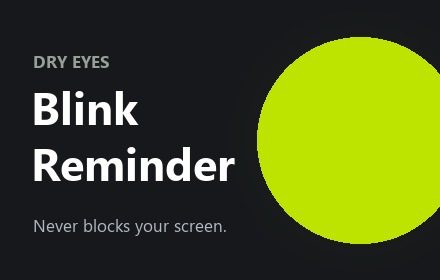
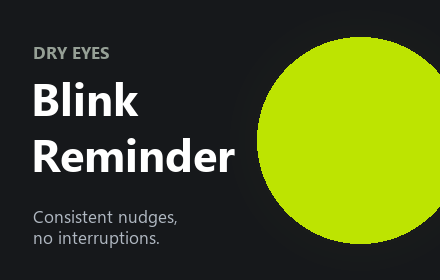
Store tiles: a new tagline, and down to the two that work
"Never blocks your screen" was the wrong line in two ways. It is a negative,
so it only lands on someone already burned by an app that blacks out the
screen -- and the break reminder does dim, so it was a claim a user could
argue with. "Consistent nudges, no interruptions" answers both questions a
shopper actually has: does it work, and what does it cost me.

The name already says what the app is, so the line underneath is free to say
how it feels to live with. On the square dark tile the disc leaves too little
room for it, so it breaks at its own comma rather than shrinking past reading.

Designs 3-5 are gone at the author's pick -- the mark, the page and the
claim. Both survivors put the name first, which is what every strong listing
in this category does. Their code goes with them rather than sitting unused.

diff --git a/store/make_chrome_assets.py b/store/make_chrome_assets.py
@@ -228,26 +228,31 @@ save(tile(1400, 560, HEAD, "30 languages · no tracking", 236, (1120, 280), 96),
 # -- two named tile designs, kept side by side --------------------------------
 # Both put the app's name on the tile. Every strong listing in the category
 # does, even though the Store prints the name beside the image; the ones that
-# show a bare icon on white read as unfinished. "Never blocks your screen" is
-# the supporting line because it is the one thing none of the neighbours can
-# say -- they advertise enforced full-screen breaks.
+# show a bare icon on white read as unfinished. The name carries the what, so
+# the line under it only has to say how the thing feels to live with -- which
+# is the one claim none of the neighbours can make, since they advertise
+# enforced full-screen breaks.
 
 LIME = (189, 228, 1)
 INK = (22, 24, 27)
 
 
-def disc(card, cx, cy, r, glow=True, alpha=255):
+def disc(card, cx, cy, r, glow=True):
     layer = Image.new("RGBA", card.size, (0, 0, 0, 0))
     g = ImageDraw.Draw(layer)
     if glow:
         for i in range(18, 0, -1):
             g.ellipse((cx - r - i * 3, cy - r - i * 3, cx + r + i * 3, cy + r + i * 3),
                       fill=LIME + (int(5 * (1 - i / 18.0) ** 2),))
-    g.ellipse((cx - r, cy - r, cx + r, cy + r), fill=LIME + (alpha,))
+    g.ellipse((cx - r, cy - r, cx + r, cy + r), fill=LIME + (255,))
     card.alpha_composite(layer)
 
 
-NAME_TOP, NAME, NOTE = "DRY EYES", "Blink Reminder", "Never blocks your screen."
+# The name says what it does, so the line under it only has to say how it
+# feels to live with. Both halves earn their place: "consistent" answers
+# whether it works, "no interruptions" answers what it costs you.
+NAME_TOP, NAME = "DRY EYES", "Blink Reminder"
+NOTE = "Consistent nudges, no interruptions."
 
 
 def design_lime(w, h):
@@ -279,9 +284,18 @@ def design_dark(w, h):
     fn = fit(d, max(lines, key=len), True, int(h * 0.17), room)
     lh = int((fn.getbbox("Hg")[3] - fn.getbbox("Hg")[1]) * 1.34)
     fe = font(int(h * 0.064), True)
-    fnote = fit(d, NOTE, False, int(h * 0.061), room)
+    # The disc eats the right-hand half, and the tagline is long enough that
+    # fitting it to what is left shrinks it past reading. So it breaks at its
+    # own comma instead -- two readable lines beat one nobody can see.
+    want = int(h * 0.061)
+    notes = [NOTE]
+    if d.textlength(NOTE, font=font(want)) > room:
+        head, tail = NOTE.split(", ", 1)
+        notes = [head + ",", tail]
+    fnote = fit(d, max(notes, key=len), False, want, room)
     eh = fe.getbbox(NAME_TOP)[3] - fe.getbbox(NAME_TOP)[1]
-    nh = fnote.getbbox(NOTE)[3] - fnote.getbbox(NOTE)[1]
+    nlh = int((fnote.getbbox("Hg")[3] - fnote.getbbox("Hg")[1]) * 1.34)
+    nh = nlh * len(notes) - int(nlh * 0.34)
     # Measured, not placed at fixed fractions: the name takes one line on the
     # marquee and two on the square tile, and a fixed subtitle position put
     # the second line straight through it.
@@ -292,113 +306,13 @@ def design_dark(w, h):
     y += eh + gap1
     for i, line in enumerate(lines):
         d.text((pad - 2, y + i * lh), line, font=fn, fill=(255, 255, 255))
-    d.text((pad, y + lh * len(lines) + gap2), NOTE, font=fnote,
-           fill=(176, 184, 194))
+    ny = y + lh * len(lines) + gap2
+    for i, line in enumerate(notes):
+        d.text((pad, ny + i * nlh), line, font=fnote, fill=(176, 184, 194))
     return c
 
 
-PAPER = (247, 248, 250)
-FULL_NAME = "Dry Eyes Blink Reminder"
-
-
-def design_mark(w, h):
-    """The cue standing in for a letter, so the mark and the name are one
-    object. The most memorable and the least self-explanatory -- it needs
-    the line underneath to say what it is."""
-    c = Image.new("RGBA", (w, h), INK + (255,))
-    d = ImageDraw.Draw(c)
-    left, right = "BL", "NK"
-    size = int(h * 0.3)
-    while True:
-        f = font(size, True)
-        r = int(size * 0.38)
-        total = d.textlength(left, font=f) + r * 2 + size * 0.2 +             d.textlength(right, font=f)
-        if total <= w * 0.8 or size <= 20:
-            break
-        size -= 2
-    wl = d.textlength(left, font=f)
-    x = (w - total) / 2
-    top = h * 0.22
-    d.text((x, top), left, font=f, fill=(255, 255, 255))
-    # Centred on the letters' own middle, not the line box, or it rides high.
-    mid = top + (f.getbbox(left)[3] + f.getbbox(left)[1]) / 2
-    disc(c, int(x + wl + size * 0.1 + r), int(mid), r, glow=False)
-    d = ImageDraw.Draw(c)
-    d.text((x + wl + size * 0.2 + r * 2, top), right, font=f, fill=(255, 255, 255))
-
-    # One line under the mark, not two: at the size the Store actually
-    # shows this, a second grey line is grey mush, and the name has to win.
-    fn = fit(d, FULL_NAME, True, int(h * 0.088), int(w * 0.86))
-    d.text(((w - d.textlength(FULL_NAME, font=fn)) / 2, h * 0.69), FULL_NAME,
-           font=fn, fill=(224, 228, 234))
-    return c
-
-
-def design_page(w, h):
-    """What it actually does: the cue over a page being read.
-
-    The only tile that shows the product instead of naming it, and the one
-    that has to be careful -- a solid lime disc blotting out a paragraph
-    would advertise precisely what this app does not do. So it is drawn the
-    way the real cue is drawn, see-through, with the words carrying on
-    underneath, and it stays inside the page rather than crossing the name.
-    """
-    c = Image.new("RGBA", (w, h), (219, 224, 231, 255))
-    m, bar, gap = int(h * 0.075), int(h * 0.185), int(h * 0.04)
-    rad = int(h * 0.04)
-    card = (m, m, w - m, h - m - bar - gap)
-    rounded_shadow(c, card, rad, spread=int(h * 0.05), strength=46)
-    d = ImageDraw.Draw(c)
-    d.rounded_rectangle(card, rad, fill=(255, 255, 255, 255))
-
-    pad = int(h * 0.09)
-    x0, inner = m + pad, w - m * 2 - pad * 2
-    y, hh = m + pad, int(h * 0.055)
-    d.rounded_rectangle((x0, y, x0 + int(inner * 0.46), y + hh),
-                        int(h * 0.012), fill=(40, 46, 54))
-    y += int(hh * 2)
-    lh, step = int(h * 0.033), int(h * 0.072)
-    for width in (0.97, 0.88, 1.0, 0.82, 0.94, 0.74):
-        if y + lh > card[3] - pad:
-            break
-        d.rounded_rectangle((x0, y, x0 + int(inner * width), y + lh),
-                            int(h * 0.012), fill=(203, 209, 218))
-        y += step
-    disc(c, int(w * 0.72), (m + card[3]) // 2, int(h * 0.2),
-         glow=False, alpha=155)
-
-    d = ImageDraw.Draw(c)
-    top = h - m - bar
-    d.rounded_rectangle((m, top, w - m, h - m), rad, fill=INK)
-    fn = fit(d, FULL_NAME, True, int(h * 0.095), inner)
-    bb = fn.getbbox(FULL_NAME)
-    d.text((x0, top + (bar - bb[3] - bb[1]) / 2), FULL_NAME, font=fn,
-           fill=(255, 255, 255))
-    return c
-
-
-def design_wedge(w, h):
-    """The argument rather than the name: the one thing none of the
-    neighbours can say."""
-    c = Image.new("RGBA", (w, h), INK + (255,))
-    disc(c, int(w * 0.86), int(h * 0.235), int(h * 0.175))
-    d = ImageDraw.Draw(c)
-    pad = int(w * 0.073)
-    room = int(w * 0.72)
-    f = fit(d, "your screen.", True, int(h * 0.15), room)
-    lh = int((f.getbbox("Hg")[3] - f.getbbox("Hg")[1]) * 1.3)
-    top = int(h * 0.3)
-    d.text((pad, top), "It never blocks", font=f, fill=(255, 255, 255))
-    d.text((pad, top + lh), "your screen.", font=f, fill=LIME)
-    fn = fit(d, FULL_NAME, True, int(h * 0.075), room)
-    d.text((pad, top + lh * 2 + int(h * 0.06)), FULL_NAME, font=fn,
-           fill=(208, 214, 222))
-    return c
-
-
-for label, fn in (("lime", design_lime), ("dark", design_dark),
-                  ("mark", design_mark), ("page", design_page),
-                  ("wedge", design_wedge)):
+for label, fn in (("lime", design_lime), ("dark", design_dark)):
     save(fn(440, 280), "tile-%s-440x280.png" % label)
     save(fn(1400, 560), "tile-%s-1400x560.png" % label)
 
